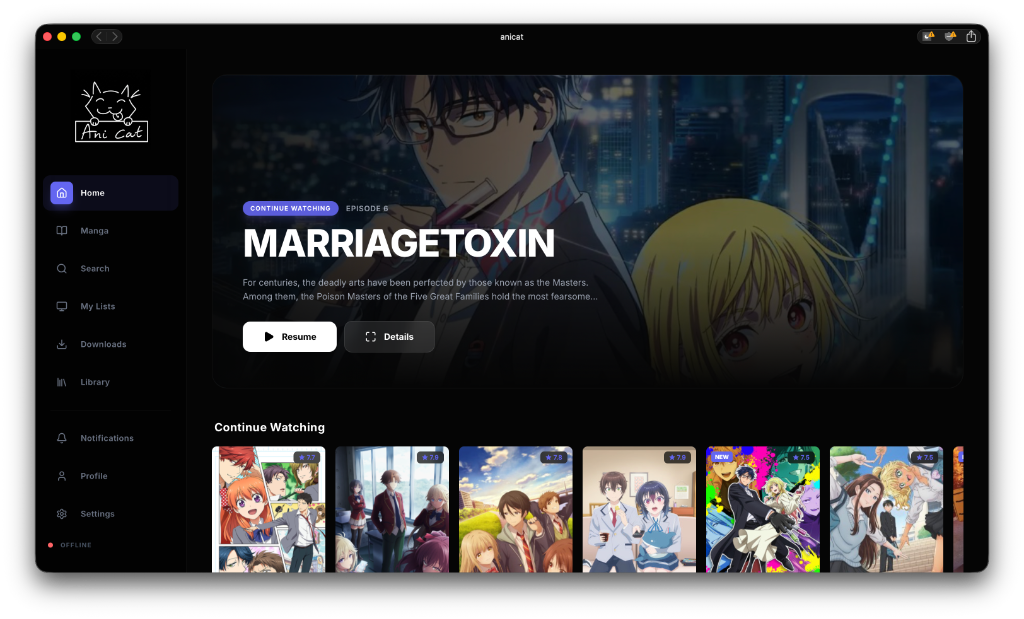
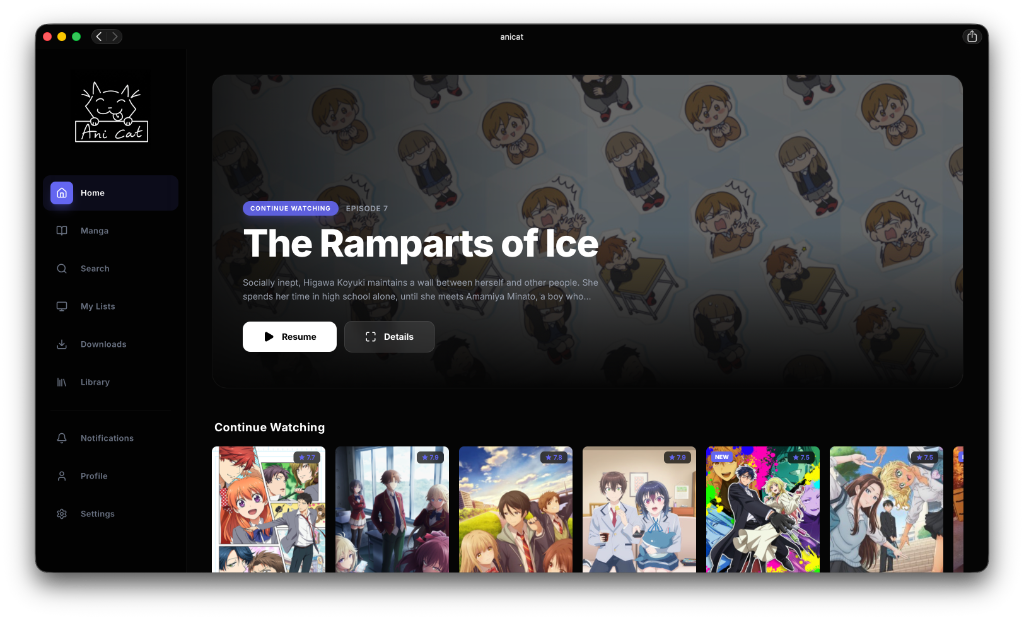
docs: make README extremely beginner-friendly and add new dashboard preview

Changed region(s): [[0.2188, 0.1228, 0.9375, 0.5525], [0.9062, 0.0307, 0.9688, 0.0921], [0.0625, 0.8595, 0.0938, 0.8901]]

diff --git a/README.md b/README.md
@@ -1,39 +1,43 @@
-# Anicat
+# Anicat 🐈⬛
 
-A specialized media companion for macOS focused on anime and manga management. Anicat provides a local-first dashboard to stream content, track progress via AniList, and manage reading with an emphasis on performance and network privacy.
+Anicat is a simple, beautiful way to watch anime and read manga on your Mac. It keeps track of everything you watch and read automatically using your AniList account.
 
-## Features
+![Anicat Dashboard](dashboard_preview.png)
 
-- **macOS Integration**: Runs as a persistent LaunchAgent background service. Includes a native App bundle for the macOS Dock.
-- **Local-Only Operation**: Server binds to `127.0.0.1` for maximum privacy and isolation from the local network.
-- **Manga Performance**: Implements a high-speed backend proxy with persistent disk caching to eliminate provider throttling.
-- **AniList Synchronization**: Bi-directional real-time sync with AniList for progress and media status.
-- **Modular Dashboard**: A minimalist PWA interface for media management and system maintenance.
+## 🌟 Why use Anicat?
 
-## Installation
-
-Anicat can be installed via a single command. The installer manages system dependencies (mpv, ffmpeg, chafa) and configures the background service.
-
-```bash
-curl -sSL https://raw.githubusercontent.com/bonkedbythonk/anicat/main/scripts/install.sh | bash
-```
-
-## Usage
-
-Once installed, the dashboard is accessible via the **Anicat Dashboard** application in your Applications folder.
-
-### Commands
-- **anicat dashboard**: Manages the server lifecycle.
-- **anicat stop**: Terminates all background services.
-- **anicat status**: Provides health and connectivity reports.
-
-### Maintenance
-Updates are delivered via the **Settings > Maintenance** tab in the dashboard. A visual indicator in the sidebar notifies you when a new version is available. The update process is handled silently in the background.
-
-## Architecture
-
-Anicat is built with a Python backend (FastAPI) and a Next.js frontend. It uses a local registry for metadata persistence, allowing for offline access to your media library and progress history.
+- **Everything in one place**: A single, clean dashboard for all your favorite shows and comics.
+- **Set it and forget it**: Once installed, it stays in the background and works silently.
+- **Mac-Friendly**: It looks and feels like a real Mac app. You can even keep it in your Dock!
+- **Fast and Private**: Built to be fast, private, and easy on your computer's battery.
 
 ---
 
-Released under the UNLICENSE.
+## 🚀 How to Install (The Easy Way)
+
+You don't need to be a computer expert to set this up. Just follow these three simple steps:
+
+1.  **Open Terminal**: Press `Command + Space` on your keyboard, type **Terminal**, and hit `Enter`.
+2.  **Paste this command**: Copy the line below and paste it into the Terminal window:
+    ```bash
+    curl -sSL https://raw.githubusercontent.com/bonkedbythonk/anicat/main/scripts/install.sh | bash
+    ```
+3.  **Wait for the "Complete!" message**: The computer will do all the heavy lifting for you. Once it's done, you're all set!
+
+---
+
+## 💡 How to use Anicat
+
+- **Open the App**: You will find **Anicat Dashboard** in your **Applications** folder. Just double-click it to start!
+- **AniList Sync**: When you first open the app, it will help you connect your AniList account so it can save your progress.
+- **Updates**: If there's a new version, a little orange dot will appear in the sidebar. Just go to Settings and click "Update"—it handles everything for you.
+- **Closing the App**: You can close the dashboard window whenever you want. Anicat will keep running quietly in the background so you can come back to it anytime.
+
+---
+
+### 🙋♂️ Need Help?
+If something doesn't look right, just try running the installation command again. It will fix any common issues automatically!
+
+---
+
+*Enjoy your anime!* 🍿🐈⬛✨